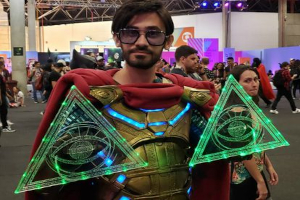
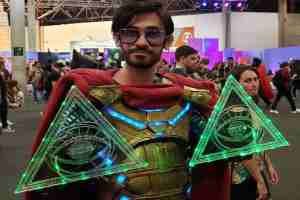
cosplay

diff --git a/Ursinhos_EM_Chamas-main/Projeto-2/geeks_cosplay.html b/Ursinhos_EM_Chamas-main/Projeto-2/geeks_cosplay.html
@@ -62,7 +62,7 @@
           </div>
           <div class="col-sm-6 col-md-4 col-lg-4 col-xl-4 col-xxl-4">
             <div class="galeria_grid">
-              <a href="https://g1.globo.com/pop-arte/ccxp/2022/noticia/2022/12/04/ccxp-2022-catarinense-vence-concurso-de-melhor-cosplay.ghtml" target="_blank" ><img class="img-fluid mx-auto d-block" src="files/img/geeks-cosplay/ccxp2.png" alt=""></a>
+              <a href="https://g1.globo.com/pop-arte/ccxp/2022/noticia/2022/12/04/ccxp-2022-catarinense-vence-concurso-de-melhor-cosplay.ghtml" target="_blank" ><img class="img-fluid mx-auto d-block" src="files/img/geeks-cosplay/ccxp2.jpg" alt=""></a>
 
             </div>
           </div>
